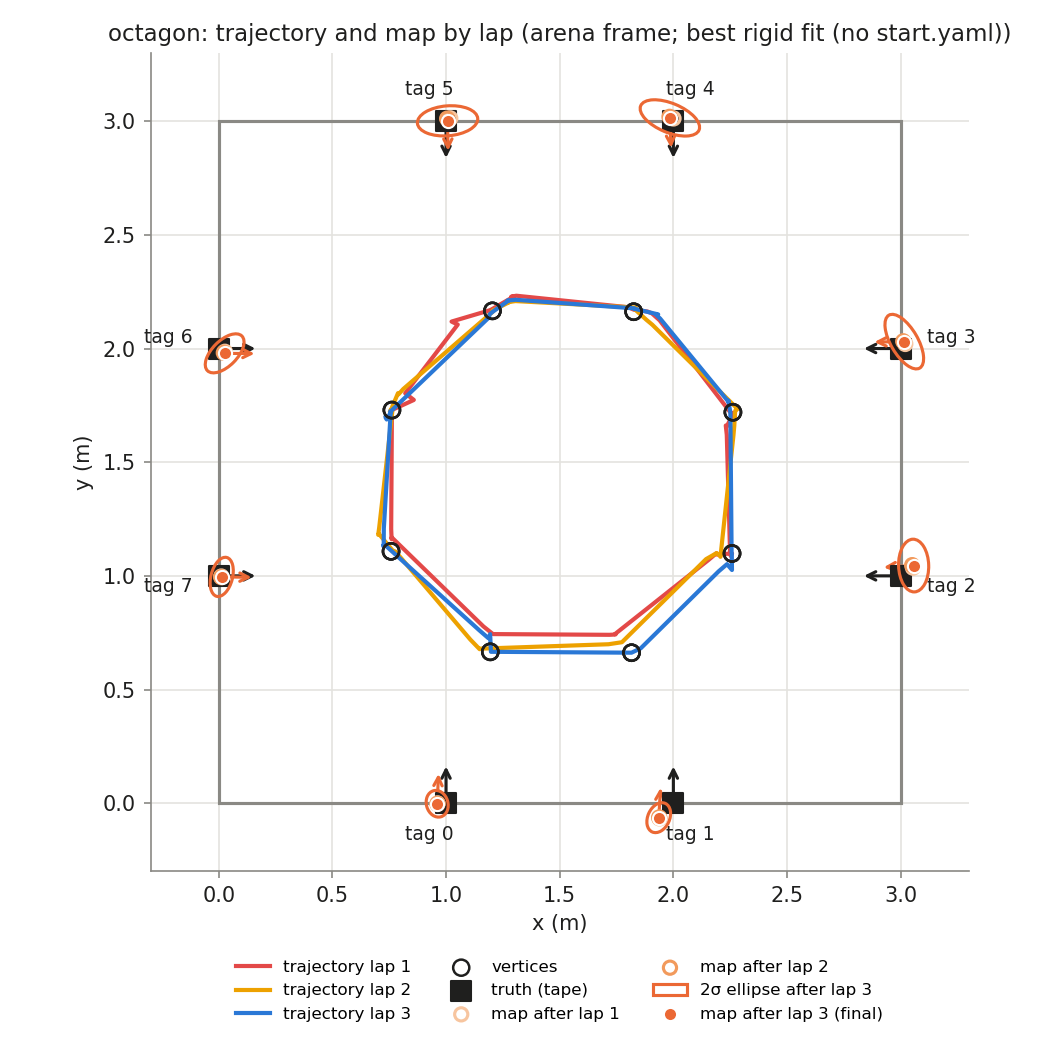
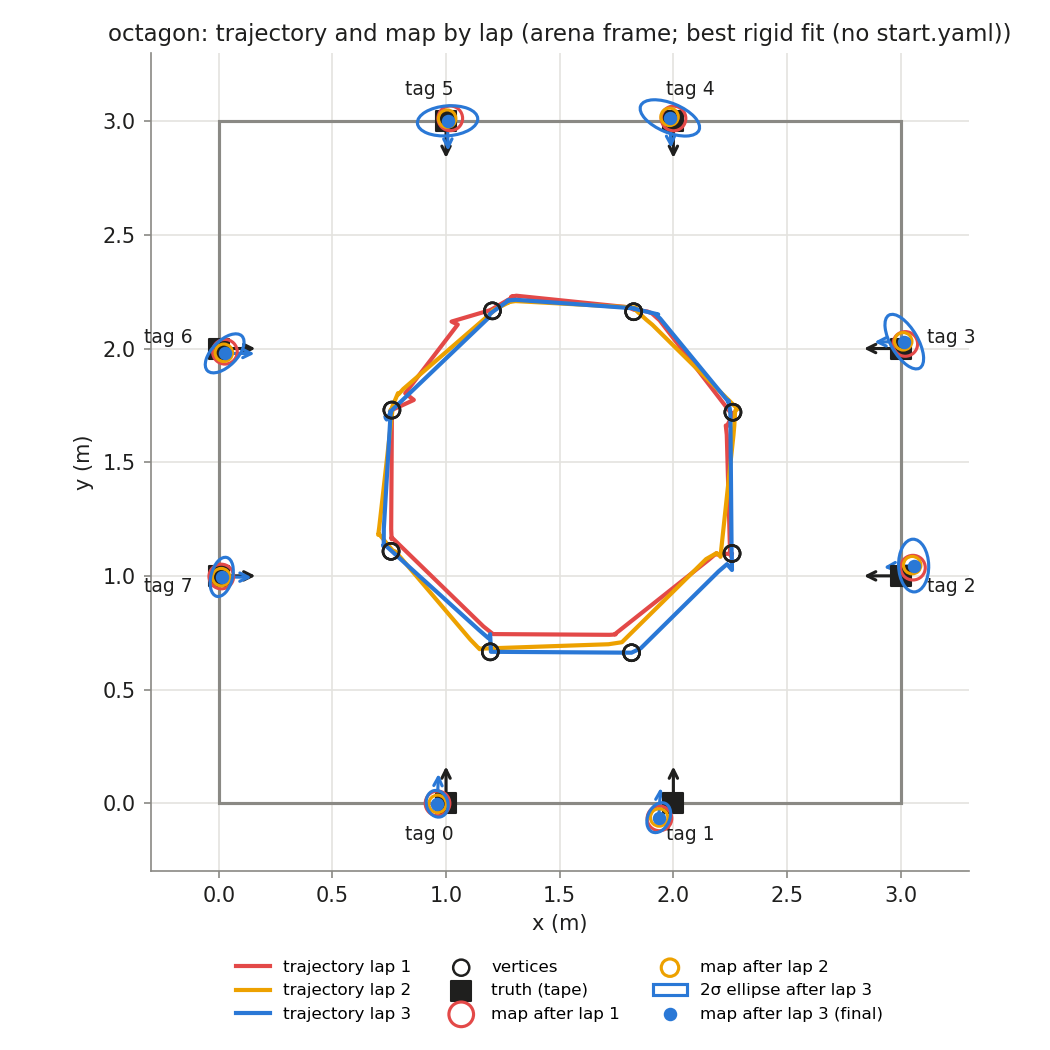
map drawing: landmark estimates as shrinking concentric circles per lap
large hollow (lap 1) -> smaller hollow (lap 2) -> small filled (lap 3), each in
its lap's trajectory colour (red / yellow / blue); 2-sigma ellipse in the last
lap's colour.

diff --git a/HW3/report_run.py b/HW3/report_run.py
@@ -306,15 +306,16 @@ def style(ax):
     ax.tick_params(colors=MUTED, labelcolor=INK)
 
 
-TRAJ_LAP_COLORS = [SERIES[7], SERIES[3], SERIES[0]]     # red, yellow, blue: lap 1 -> 3
-LM_LAP_COLORS = ['#f7c59f', '#f29a5c', SERIES[1]]        # light -> full orange: lap 1 -> 3
+LAP_COLORS = [SERIES[7], SERIES[3], SERIES[0]]      # red, yellow, blue: lap 1 -> 3
+# landmark marker area per lap: concentric, shrinking; the last lap is drawn filled
+LM_SIZES = [140, 70, 30]
 
 
-def lap_color(lap, n_laps, palette):
-    """Colour of lap `lap` (1-based) out of n_laps, spread over the palette."""
+def lap_pick(lap, n_laps, values):
+    """Value for lap `lap` (1-based) out of n_laps, spread over `values`."""
     if n_laps <= 1:
-        return palette[-1]
-    return palette[round((lap - 1) * (len(palette) - 1) / (n_laps - 1))]
+        return values[-1]
+    return values[round((lap - 1) * (len(values) - 1) / (n_laps - 1))]
 
 
 def lap_of_rows(phase):
@@ -348,8 +349,7 @@ def plot_map(phase, truth, out_path):
         if idx[0] > 0:
             idx = [idx[0] - 1] + idx
         ax.plot([traj[k].x for k in idx], [traj[k].y for k in idx], '-',
-                color=lap_color(lap, n_laps, TRAJ_LAP_COLORS), lw=2,
-                label=f'trajectory lap {lap}',
+                color=lap_pick(lap, n_laps, LAP_COLORS), lw=2, label=f'trajectory lap {lap}',
                 zorder=2 + lap)
     goals = [map_eval.to_arena(T, Pose2(float(w['goal_x']), float(w['goal_y']), 0.0))
              for w in phase['wps']]
@@ -362,15 +362,16 @@ def plot_map(phase, truth, out_path):
         ax.annotate(f'tag {i}', (t.x, t.y), textcoords='offset points', color=INK,
                     xytext=outward(t), ha='center', va='center', fontsize=9)
     snaps = list(phase['laps'].items())
-    # Map after every lap but the last: hollow circles in that lap's colour.
+    # Map after every lap but the last: concentric hollow circles, shrinking lap by lap,
+    # in the lap's trajectory colour.
     for lap, snap in snaps[:-1]:
         est = map_eval.poses_to_arena(T, map_eval.snapshot_poses(snap))
-        ax.scatter([p.x for p in est.values()], [p.y for p in est.values()], s=40,
-                   facecolors='none', edgecolors=lap_color(lap, n_laps, LM_LAP_COLORS), lw=1.5,
-                   zorder=7,
+        ax.scatter([p.x for p in est.values()], [p.y for p in est.values()],
+                   s=lap_pick(lap, n_laps, LM_SIZES), facecolors='none',
+                   edgecolors=lap_pick(lap, n_laps, LAP_COLORS), lw=1.5, zorder=7,
                    label=f'map after lap {lap}')
     last_lap, final = snaps[-1]
-    fc = lap_color(last_lap, n_laps, LM_LAP_COLORS)
+    fc = lap_pick(last_lap, n_laps, LAP_COLORS)
     est = map_eval.poses_to_arena(T, map_eval.snapshot_poses(final))
     for k, m in enumerate(final['landmarks']):
         p = est[m['id']]
@@ -378,7 +379,7 @@ def plot_map(phase, truth, out_path):
         ax.add_patch(Ellipse((p.x, p.y), 2 * a, 2 * b, angle=math.degrees(ang), fill=False,
                              ec=fc, lw=1.5, zorder=7,
                              label=f'2\u03c3 ellipse after lap {last_lap}' if k == 0 else None))
-        ax.scatter([p.x], [p.y], s=40, color=fc, ec='white', lw=1, zorder=8,
+        ax.scatter([p.x], [p.y], s=lap_pick(last_lap, n_laps, LM_SIZES), color=fc, zorder=8,
                    label=f'map after lap {last_lap} (final)' if k == 0 else None)
         arrow(ax, p, 0.15, color=fc)
     ax.set_aspect('equal')
